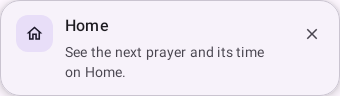
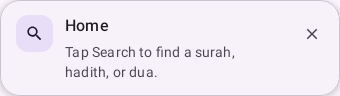
Show first-use tips on the visible Home header controls

diff --git a/core/components/src/commonMain/kotlin/com/starception/submission/settings/components/AppGuide.kt b/core/components/src/commonMain/kotlin/com/starception/submission/settings/components/AppGuide.kt
@@ -42,13 +42,13 @@ import kotlinx.coroutines.delay
 
 /** Stable IDs are also used by the native iOS Family screen. Visits never leave this device. */
 enum class GuideSection(val label: String, val tip: String, val icon: ImageVector, val tipKey: String? = null) {
-    HOME("Home", "Tap Tune schedule to adjust your prayer times.", Icons.Outlined.Home, tipKey = "HOME_TUNE_SCHEDULE"),
+    HOME("Home", "Tap Search to find a surah, hadith, or dua.", Icons.Outlined.Search, tipKey = "HOME_SEARCH"),
     READING("Reading", "Open Tafsir to see the explanation beside the ayah.", Icons.Outlined.MenuBook),
     SEARCH("Search", "Search by a name, a phrase or a topic.", Icons.Outlined.Search),
     FAMILY("Family", "Accept a family invitation to start a conversation.", Icons.Outlined.FavoriteBorder),
     SAVED("Saved", "Tap the bookmark while reading. Find the surah here later.", Icons.Outlined.BookmarkBorder),
     RECITERS("Reciters", "Search by name, then tap Play to preview a reciter.", Icons.Outlined.Headphones),
-    SETTINGS("Settings", "Choose a theme and display mode in Appearance.", Icons.Outlined.Settings),
+    SETTINGS("Settings", "Tap Settings to change your theme, prayer preferences, or downloads.", Icons.Outlined.Settings, tipKey = "HOME_SETTINGS"),
 }
 
 interface AppGuideStore {
@@ -108,18 +108,22 @@ fun AppGuideHost(section: GuideSection?, enabled: Boolean = true, store: AppGuid
     val allowed = enabled && LocalAppGuideEnabled.current
     val lifecycle by LocalLifecycleOwner.current.lifecycle.currentStateFlow.collectAsState()
     val resumed = lifecycle.isAtLeast(Lifecycle.State.RESUMED)
-    val anchor = guideAnchors.values.lastOrNull { it.first == section && !it.second.isEmpty }?.second
+    val tipSection = remember(section, allowed, resumed, store) {
+        if (section == GuideSection.HOME && store.tipSeen(GuideSection.HOME)) GuideSection.SETTINGS
+        else section
+    }
+    val anchor = guideAnchors.values.lastOrNull { it.first == tipSection && !it.second.isEmpty }?.second
     val hasAnchor = anchor != null
     var tip by remember(section) { mutableStateOf<GuideSection?>(null) }
     LaunchedEffect(section, allowed, resumed) {
         if (section != null && allowed && resumed) store.visit(section)
     }
-    LaunchedEffect(section, allowed, resumed, hasAnchor) {
+    LaunchedEffect(tipSection, allowed, resumed, hasAnchor) {
         tip = null
-        if (section != null && allowed && resumed && hasAnchor && !store.tipSeen(section) && store.tipsEnabled()) {
+        if (tipSection != null && allowed && resumed && hasAnchor && !store.tipSeen(tipSection) && store.tipsEnabled()) {
             delay(650)
-            GuidePresentation.activeTip = section
-            tip = section
+            GuidePresentation.activeTip = tipSection
+            tip = tipSection
         }
     }
     val current = tip

diff --git a/shared/src/commonMain/kotlin/com/starception/submission/shared/ui/PrayerTimesScreen.kt b/shared/src/commonMain/kotlin/com/starception/submission/shared/ui/PrayerTimesScreen.kt
@@ -1319,7 +1319,7 @@ private fun PrayerHomeHeader(
                 Text(greeting, style = HomeHeaderTypography.greeting.copy(shadow = headerShadow), color = ink, maxLines = 1)
                 HomeRotatingHeaderText(supportingTexts, style = HomeHeaderTypography.detail.copy(shadow = headerShadow), color = ink.copy(alpha = .86f))
             }
-            AppHeaderActions(onDarkArtwork = lightHeaderInk, onSearchClick = onOpenSearch, onSettingsClick = onOpenSettings)
+            AppHeaderActions(onDarkArtwork = lightHeaderInk, onSearchClick = onOpenSearch, onSettingsClick = onOpenSettings, guideHomeActions = true)
         }
         return
     }
@@ -1388,7 +1388,8 @@ private fun PrayerHomeHeader(
             material = {
                 Surface(
                     onClick = pillSurfaceTap,
-                    modifier = Modifier.weight(1f).heightIn(min = 48.dp),
+                    modifier = Modifier.weight(1f).heightIn(min = 48.dp)
+                        .appGuideAnchor(GuideSection.HOME.takeUnless { inPlaceListening }),
                     shape = CircleShape,
                     color = MaterialTheme.colorScheme.primaryContainer,
                     contentColor = MaterialTheme.colorScheme.onPrimaryContainer,
@@ -1451,7 +1452,8 @@ private fun PrayerHomeHeader(
                 // view when the app forces dark mode.
                 Surface(
                     onClick = pillSurfaceTap,
-                    modifier = Modifier.weight(1f).heightIn(min = 48.dp),
+                    modifier = Modifier.weight(1f).heightIn(min = 48.dp)
+                        .appGuideAnchor(GuideSection.HOME.takeUnless { inPlaceListening }),
                     shape = CircleShape,
                     color = MaterialTheme.colorScheme.primaryContainer,
                     contentColor = MaterialTheme.colorScheme.onPrimaryContainer,
@@ -1510,7 +1512,7 @@ private fun PrayerHomeHeader(
                 }
             },
         )
-        Box(Modifier.size(48.dp).clip(CircleShape).background(
+        Box(Modifier.size(48.dp).appGuideAnchor(GuideSection.SETTINGS).clip(CircleShape).background(
             if (onArtwork) Color.Black.copy(alpha = 0.32f) else Color.Transparent,
         )) {
             IconTapTarget(
@@ -2101,8 +2103,7 @@ private fun PrayerScheduleSection(
                     },
                     modifier = Modifier
                         .widthIn(min = tuneButtonMinWidth)
-                        .heightIn(min = tuneButtonMinHeight)
-                        .appGuideAnchor(GuideSection.HOME.takeUnless { isTuning }),
+                        .heightIn(min = tuneButtonMinHeight),
                 ) {
                 Row(
                     modifier = Modifier.padding(horizontal = if (compact) 5.dp else 6.dp),

diff --git a/app/src/testDemo/kotlin/com/starception/submission/settings/components/AppGuideTest.kt b/app/src/testDemo/kotlin/com/starception/submission/settings/components/AppGuideTest.kt
@@ -151,19 +151,29 @@ class AppGuideTest {
         assertEquals(setOf(GuideSection.SETTINGS, GuideSection.RECITERS), store.visits)
     }
 
-    @Test fun existingHomeUsersSeeTheNewTuneScheduleTip() {
+    @Test fun existingHomeUsersSeeTheNewSearchTip() {
         val preferences = ApplicationProvider.getApplicationContext<Context>()
             .getSharedPreferences("deenly_app_guide", Context.MODE_PRIVATE)
-        preferences.edit().putBoolean("tip_seen_HOME", true).commit()
+        preferences.edit().putBoolean("tip_seen_HOME", true).putBoolean("tip_seen_HOME_TUNE_SCHEDULE", true).commit()
+        var section by mutableStateOf<GuideSection?>(GuideSection.HOME)
         compose.setContent { MaterialTheme { Box(Modifier.fillMaxSize()) {
-            Button(onClick = {}, modifier = Modifier.appGuideAnchor(GuideSection.HOME)) {
-                Text("Tune schedule")
-            }
-            AppGuideHost(GuideSection.HOME)
+            com.starception.submission.ui.AppHeaderActions(
+                onDarkArtwork = true,
+                onSearchClick = {},
+                onSettingsClick = {},
+                guideHomeActions = true,
+            )
+            AppGuideHost(section)
         } } }
         waitForTip()
         compose.onNodeWithText(GuideSection.HOME.tip).assertIsDisplayed()
-        assertTrue(preferences.getBoolean("tip_seen_HOME_TUNE_SCHEDULE", false))
+        assertTrue(preferences.getBoolean("tip_seen_HOME_SEARCH", false))
+        compose.onNodeWithText(GuideSection.SETTINGS.tip).assertDoesNotExist()
+        compose.runOnIdle { section = null }
+        compose.onNodeWithTag("appGuideTip").assertDoesNotExist()
+        compose.runOnIdle { section = GuideSection.HOME }
+        waitForTip()
+        compose.onNodeWithText(GuideSection.SETTINGS.tip).assertIsDisplayed()
     }
 
     @Test fun persistedVisitPreventsAnotherTipAfterCompositionRecreation() {

diff --git a/app/src/main/kotlin/com/starception/submission/ui/AppHeaderActions.kt b/app/src/main/kotlin/com/starception/submission/ui/AppHeaderActions.kt
@@ -1,5 +1,7 @@
 package com.starception.submission.ui
 
+import com.starception.submission.settings.components.GuideSection
+import com.starception.submission.settings.components.appGuideAnchor
 import androidx.compose.animation.core.animateFloatAsState
 import androidx.compose.animation.core.tween
 import androidx.compose.foundation.background
@@ -43,6 +45,7 @@ internal fun AppHeaderActions(
     onSearchClick: () -> Unit,
     onSettingsClick: () -> Unit,
     compact: Boolean = false,
+    guideHomeActions: Boolean = false,
 ) {
     Box(contentAlignment = Alignment.Center) {
         AppActionSurround(
@@ -50,13 +53,21 @@ internal fun AppHeaderActions(
             modifier = Modifier.matchParentSize(),
         )
         Row(horizontalArrangement = Arrangement.spacedBy(if (compact) (-4).dp else 0.dp)) {
-            AppActionButton(onSearchClick, showSurround = false) {
+            AppActionButton(
+                onClick = onSearchClick,
+                modifier = Modifier.appGuideAnchor(GuideSection.HOME.takeIf { guideHomeActions }),
+                showSurround = false,
+            ) {
                 HeaderActionIcon(
                     painter = painterResource(R.drawable.ic_home_search_fine),
                     contentDescription = stringResource(R.string.app_top_bar_search_hint),
                 )
             }
-            AppActionButton(onSettingsClick, showSurround = false) {
+            AppActionButton(
+                onClick = onSettingsClick,
+                modifier = Modifier.appGuideAnchor(GuideSection.SETTINGS.takeIf { guideHomeActions }),
+                showSurround = false,
+            ) {
                 HeaderActionIcon(
                     painter = painterResource(R.drawable.ic_home_settings_fine),
                     contentDescription = stringResource(R.string.app_top_bar_settings_icon_description),

diff --git a/shared/src/commonMain/kotlin/com/starception/submission/shared/ui/AppHeaderActions.kt b/shared/src/commonMain/kotlin/com/starception/submission/shared/ui/AppHeaderActions.kt
@@ -1,5 +1,7 @@
 package com.starception.submission.shared.ui
 
+import com.starception.submission.settings.components.GuideSection
+import com.starception.submission.settings.components.appGuideAnchor
 import androidx.compose.animation.core.animateFloatAsState
 import androidx.compose.animation.core.tween
 import androidx.compose.foundation.background
@@ -43,6 +45,7 @@ internal fun AppHeaderActions(
     onSearchClick: () -> Unit,
     onSettingsClick: () -> Unit,
     compact: Boolean = false,
+    guideHomeActions: Boolean = false,
 ) {
     Box(contentAlignment = Alignment.Center) {
         AppActionSurround(
@@ -50,13 +53,21 @@ internal fun AppHeaderActions(
             modifier = Modifier.matchParentSize(),
         )
         Row(horizontalArrangement = Arrangement.spacedBy(if (compact) (-4).dp else 0.dp)) {
-            AppActionButton(onSearchClick, showSurround = false) {
+            AppActionButton(
+                onClick = onSearchClick,
+                modifier = Modifier.appGuideAnchor(GuideSection.HOME.takeIf { guideHomeActions }),
+                showSurround = false,
+            ) {
                 HeaderActionIcon(
                     painter = Icons.Outlined.Search,
                     contentDescription = "Search",
                 )
             }
-            AppActionButton(onSettingsClick, showSurround = false) {
+            AppActionButton(
+                onClick = onSettingsClick,
+                modifier = Modifier.appGuideAnchor(GuideSection.SETTINGS.takeIf { guideHomeActions }),
+                showSurround = false,
+            ) {
                 HeaderActionIcon(
                     painter = Icons.Outlined.Settings,
                     contentDescription = "Settings",

diff --git a/app/src/main/kotlin/com/starception/submission/feature/prayertimes/PrayerTimesScreen.kt b/app/src/main/kotlin/com/starception/submission/feature/prayertimes/PrayerTimesScreen.kt
@@ -16,8 +16,6 @@
 
 package com.starception.submission.feature.prayertimes
 
-import com.starception.submission.settings.components.GuideSection
-import com.starception.submission.settings.components.appGuideAnchor
 import com.starception.submission.core.model.deenly.InsightSearchProgress
 import android.Manifest
 import android.content.Context
@@ -3297,6 +3295,7 @@ fun PrayerTimesScreen(
                     pillContainerColor = if (outerIsLandscape) Color.Unspecified else if (darkHome) Color(0xFF25362B) else Color(0xFFF7F5FB),
                     pillContentColor = if (outerIsLandscape) Color.Unspecified else if (darkHome) Color.White else Color(0xFF191724),
                     homeImmersiveHeader = !outerIsLandscape,
+                    guideHomeActions = true,
                     // Keep the home actions hidden until the reader's closing
                     // motion has cleared the header, including its fluid recess.
                     homeHeaderActionsVisible = !insightTileExpanded && !insightReaderOpen,
@@ -5380,8 +5379,7 @@ private fun PrayerHeaderAction(
     Surface(
         modifier = Modifier
             .width(actionWidth)
-            .height(if (compact) 36.dp else 44.dp)
-            .appGuideAnchor(GuideSection.HOME.takeUnless { active }),
+            .height(if (compact) 36.dp else 44.dp),
         onClick = onClick,
         shape = RoundedCornerShape(50),
         color = containerColor,

diff --git a/app/src/main/kotlin/com/starception/submission/ui/AppTopSearchBar.kt b/app/src/main/kotlin/com/starception/submission/ui/AppTopSearchBar.kt
@@ -196,6 +196,7 @@ fun AppTopSearchBar(
     homeHeaderVisibility: () -> Float = { 1f },
     onVerseClick: (surahNumber: Int, ayahNumber: Int) -> Unit = { _, _ -> },
     onSearchSubmit: (query: String) -> Unit = {},
+    guideHomeActions: Boolean = false,
     content: @Composable () -> Unit,
 ) {
     // All non-verse search tap callbacks (topic, news, fortress dua, quranic dua,
@@ -937,6 +938,7 @@ fun AppTopSearchBar(
                 AppHeaderActions(
                     onDarkArtwork = homeHeaderLightText,
                     onSearchClick = { searchViewHolder.value?.show() },
+                    guideHomeActions = guideHomeActions,
                     onSettingsClick = onSettingsClick,
                     compact = true,
                 )
@@ -960,6 +962,7 @@ fun AppTopSearchBar(
                 AppHeaderActions(
                     onDarkArtwork = isDarkTheme,
                     onSearchClick = { searchViewHolder.value?.show() },
+                    guideHomeActions = guideHomeActions,
                     onSettingsClick = onSettingsClick,
                 )
             }
